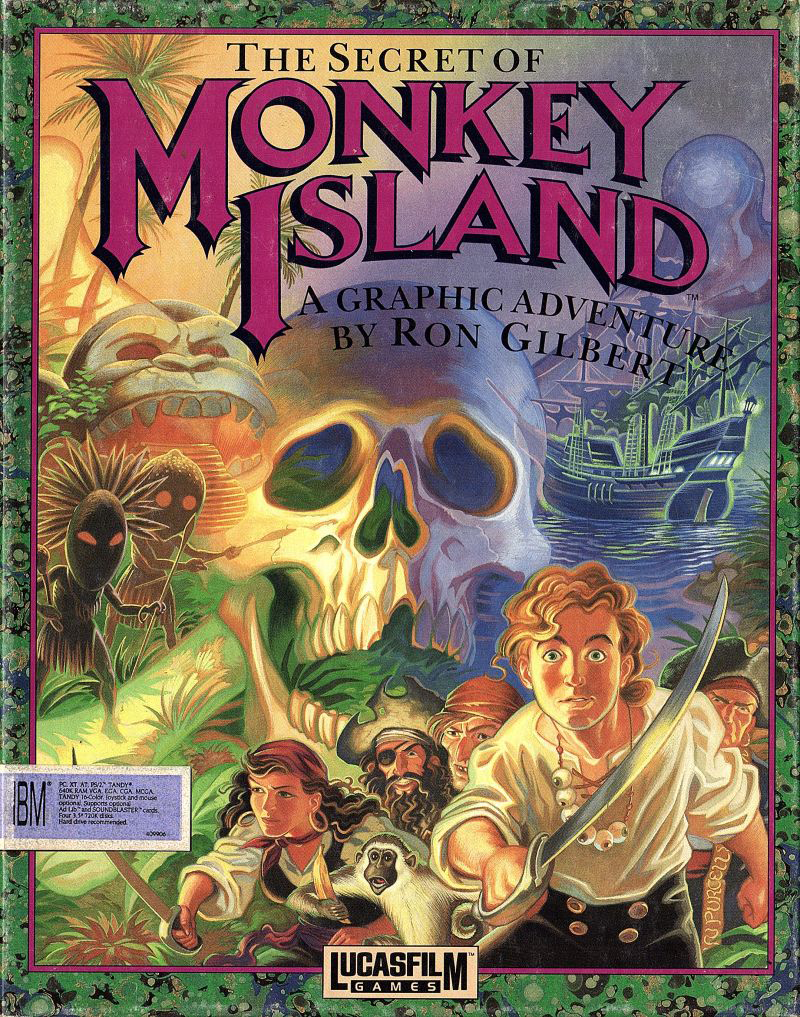
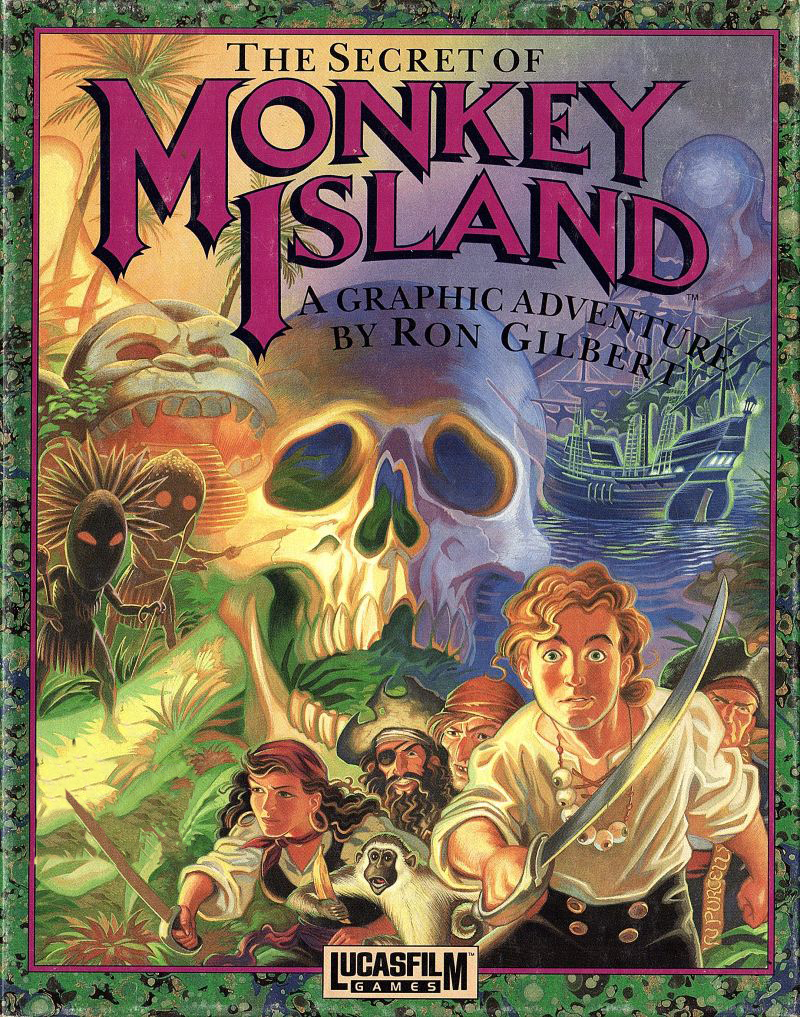
Added additional box art. The sidebar is now dynamically generated based on installed games. Mocked up the gallery. Updated the readme.

Changed region(s): [[0.0, 0.7316, 0.25, 0.8535]]

diff --git a/scummy.html b/scummy.html
@@ -14,18 +14,15 @@
       <i class="fas fa-clock fa-fw"></i>Recent
     </div>
     <div class="sideBarItem selected">
-      <i class="fas fa-layer-group fa-fw"></i>All
+      <i class="fas fa-layer-group fa-fw"></i>All <span class="badge" id="all"></span>
     </div>
     <div class="sideBarItem">
-      <i class="fas fa-heart fa-fw"></i>Favorites
+      <i class="fas fa-heart fa-fw"></i>Favorites <span class="badge" id="favorites"></span>
     </div>
     <div id="sideBarCategories">
       <div class="sideBarHeader">
         CATEGORIES
       </div>
-    </div>
-    <div class="sideBarItem">
-      <i class="fas fa-bookmark fa-fw"></i>Other Games
     </div>
   </div>
   <div class="leftMenuBar">
@@ -34,9 +31,6 @@
     </div>
     <div class="menuButton">
       <i class="fas fa-search fa-fw"></i>
-    </div>
-    <div class="menuButton">
-      <i class="fas fa-filter fa-fw"></i>
     </div>
   </div>
   <div class="rightMenuBar">
@@ -48,7 +42,17 @@
   </div>
   <div class="main">
     <div id="grid">
-      <div><img src="images/scumm/monkey.png"><span>The Secret of Monkey Island</span></div>
+      <div><img src="images/sword1/sword1.png"><span>Broken Sword: Shadows of the Templars</span></div>
+      <div><img src="images/agos/elvira1.png"><span>Elvira - Mistress of the Dark</span></div>
+      <div><img src="images/cine/fw.png"><span>Future Wars</span></div>
+      <div><img src="images/glk/hhgttg.png"><span>Hitchhiker's Guide to the Galaxy</span></div>
+      <div><img src="images/sci/kq6.png"><span>King's Quest 6: Heir Today, Gone Tomorrow</span></div>
+      <div><img src="images/lab/lab.png"><span>Labyrinth of Time</span></div>
+      <div><img src="images/sci/lighthouse.png"><span>Lighthouse: The Dark Being</span></div>
+      <div><img src="images/gob/lit.png"><span>Lost in Time</span></div>
+      <div><img src="images/mohawk/myst.png"><span>Lost in Time</span></div>
+      <div><img src="images/scumm/tentacle.png"><span>Maniac Mansion: Day of the Tentacle</span></div>
+      <div><img src="images/scumm/monkey.png"><span>The Secret of Monkey Island</span><div class="favorite"><i class="fas fa-heart"></i></div></div>
       <div><img src="images/sci/sq4.png"><span>Space Quest IV: Roger Wilco and the Time Rippers</span></div>
       <div><img src="images/sci/sq6.png"><span>Space Quest 6: Roger Wilco in the Spinal Frontier</span></div>
       <div><img src="images/gob/urban.png"><span>Urban Runner</span></div>

diff --git a/js/scummy.js b/js/scummy.js
@@ -11,6 +11,8 @@ const store = new Store();
 const customTitlebar = require('custom-electron-titlebar');
 
 var devMode = true;
+var installed = ["monkey", "sq4", "sq6", "urban", "ween", "lighthouse", "fw", "kq6", "lab", "lit", "myst", "elvira1", "sword1", "tentacle", "hhgttg"]
+var favorites = ["monkey", "sq4", "lighthouse", "fw", "myst", "sword1"]
 
 //Menu.setApplicationMenu(null);
 
@@ -36,15 +38,27 @@ $(".main").on("mouseenter", () => {
 });
 
 function drawCategories() {
+  $("#all").html(installed.length);
+  $("#favorites").html(favorites.length);
+  let installedCategories = {};
+  Object.keys(categories).forEach(key => {
+    installedCategories[key] = 0;
+  });
+  Object.keys(gameData).forEach(key => {
+    if (installed.includes(gameData[key]['id'])) installedCategories[gameData[key]['category']] += 1;
+  });
   Object.keys(categories).sort().forEach(key => {
-    let tmpIcon = $("<i></i>", {"class": "fas fa-bookmark fa-fw"});
-    let tmpObject = $("<div></div>", {"class":"sideBarItem", "id":key}).text(categories[key]).prepend(tmpIcon);
-    $("#sideBarCategories").append(tmpObject);
+    if (installedCategories[key] > 0) {
+      let tmpIcon = $("<i></i>", {"class": "fas fa-bookmark fa-fw bookmark"});
+      let tmpCount = $("<span></span>", {"class":"badge"}).text(installedCategories[key]);
+      let tmpObject = $("<div></div>", {"class":"sideBarItem", "id":key}).text(categories[key]).prepend(tmpIcon).append(tmpCount);
+      $("#sideBarCategories").append(tmpObject);
+    }
   });
 }
 
 function drawGames() {
   if ($("#gallery-view").hasClass("active")) {
-    
+
   }
 }

diff --git a/css/scummy.css b/css/scummy.css
@@ -45,6 +45,22 @@ html {
   opacity: 1.0;
 }
 
+.sideBarItem.select > i.bookmark {
+  color: #080;
+}
+
+.sideBarItem.select > i.favorite {
+  color: #800;
+}
+
+.sideBarItem.select > i.bookmark {
+  color: #080;
+}
+
+.sideBarItem:hover > i {
+  opacity: 1.0;
+}
+
 .sideBarItem:hover > i {
   opacity: 1.0;
 }
@@ -52,6 +68,16 @@ html {
 .sideBarItem i {
   opacity: 0.5;
   padding-right: 5px;
+}
+
+.sideBarItem > .badge {
+  display: inline-block;
+  margin-left: 5px;
+  background: white;
+  color: #1B262C;
+  padding: 0 10px;
+  border-radius: 20px;
+  font-size: 0.8em;
 }
 
 #sideBarCategories {
@@ -119,10 +145,8 @@ html {
   background: #BBE1FA;
   border-top-left-radius: 5px;
   padding: 60px 30px 30px 30px;
+  box-sizing: border-box;
 }
-
-
-
 
 
 #grid {

diff --git a/js/categories.js b/js/categories.js
@@ -19,5 +19,6 @@ var categories = {
   "cyan": "Cyan Worlds",
   "polarware": "Polarware",
   "origin": "Origin Systems",
-  "activision": "Activision"
+  "activision": "Activision",
+  "other": "Other Games"
 };

diff --git a/README.md b/README.md
@@ -1,5 +1,172 @@
-# Scummy: A SCUMMVM front end.
+[![Contributors][contributors-shield]][contributors-url]
+[![Forks][forks-shield]][forks-url]
+[![Stargazers][stars-shield]][stars-url]
+[![Issues][issues-shield]][issues-url]
+[![MIT License][license-shield]][license-url]
+[![LinkedIn][linkedin-shield]][linkedin-url]
 
-Scummy is a modern, clean UI for managing SCUMMVM games.
 
-Visit the Trello board at https://trello.com/b/kM5O1UM2/scummy
+
+<!-- PROJECT LOGO -->
+<br />
+<p align="center">
+  <a href="https://github.com/jharrels/scummy">
+    <img src="images/logo.png" alt="Logo" width="100" height="100">
+  </a>
+
+  <h3 align="center">Scummy</h3>
+
+  <p align="center">
+    A modern, clean front-end for SCUMMVM.
+    <br />
+    <br />
+    <a href="https://github.com/jharrels/scummy/issues">Report Bug</a>
+    ·
+    <a href="https://github.com/jharrels/scummy/issues">Request Feature</a>
+  </p>
+</p>
+
+
+
+<!-- TABLE OF CONTENTS -->
+<details open="open">
+  <summary>Table of Contents</summary>
+  <ol>
+    <li>
+      <a href="#about-the-project">What is Scummy?</a>
+      <ul>
+        <li><a href="#built-with">Built With</a></li>
+      </ul>
+    </li>
+    <li>
+      <a href="#getting-started">Getting Started</a>
+      <ul>
+        <li><a href="#prerequisites">Prerequisites</a></li>
+        <li><a href="#installation">Installation</a></li>
+      </ul>
+    </li>
+    <li><a href="#usage">Usage</a></li>
+    <li><a href="#roadmap">Roadmap</a></li>
+    <li><a href="#contributing">Contributing</a></li>
+    <li><a href="#license">License</a></li>
+    <li><a href="#contact">Contact</a></li>
+    <li><a href="#acknowledgements">Acknowledgements</a></li>
+  </ol>
+</details>
+
+
+
+<!-- ABOUT THE PROJECT -->
+## What is Scummy?
+
+[![Scummy][scummy-gallery]](https://j-topia.com/images/scummy_gallery.png)
+
+Scummy is a well designed, clean, and modern front-end for SCUMMVM. For those who aren't familiar, SCUMMVM is an application which allow you to run classic graphic adventure and roleplaying games on modern systems. While it is a fantastic application that has given many a chance to relive their childhood favorites, I find the user interface a little old school.
+
+Why didn't I just contribute to the SCUMMVM project? Because I am a horrible C/C++ developer and quite honestly, I wasn't sure what I was looking at when I snagged the source code. I am used to working with web technologies, so I thought about providing a front-end for those who would like to use one as a way of giving back to the SCUMMVM community.
+
+A list of resources that I find helpful are listed in the acknowledgements.
+
+### Built With
+
+* [Node.js](https://nodejs.org)
+* [JQuery](https://jquery.com)
+* [Electron](https://www.electronjs.org)
+* [Font Awesome](https://fontawesome.com)
+
+
+
+<!-- GETTING STARTED -->
+## Getting Started
+
+You've checked out Scummy and would like to contribute? Great! Here's how to set up a working copy locally.
+
+### Prerequisites
+
+This is an example of how to list things you need to use the software and how to install them.
+* npm
+  ```sh
+  npm install npm@latest -g
+  ```
+
+### Installation
+
+1. Clone the repo
+   ```sh
+   git clone https://github.com/jharrels/scummy.git
+   ```
+3. Install NPM packages
+   ```sh
+   npm install
+   ```
+4. Startup Scummy from the repo
+   ```sh
+   npm test
+   ```
+
+
+
+<!-- ROADMAP -->
+## Roadmap
+Visit the Trello board at https://trello.com/b/kM5O1UM2/scummy to see where we're headed.
+
+See the [open issues](https://github.com/jharrels/scummy/issues) for a list of proposed features (and known issues).
+
+
+
+<!-- CONTRIBUTING -->
+## Contributing
+
+Contributions are what make the open source community such an amazing place to be learn, inspire, and create. Any contributions you make are **greatly appreciated**.
+
+1. Fork the Project
+2. Create your Feature Branch (`git checkout -b feature/amazing-feature`)
+3. Commit your Changes (`git commit -m 'Add some amazing-feature'`)
+4. Push to the Branch (`git push origin feature/amazing-feature`)
+5. Open a Pull Request
+
+
+
+<!-- LICENSE -->
+## License
+
+Distributed under the MIT License. See `LICENSE` for more information.
+
+
+
+<!-- CONTACT -->
+## Contact
+
+Project Link: [https://github.com/jharrels/scummy](https://github.com/jharrels/scummy)
+
+
+
+<!-- ACKNOWLEDGEMENTS -->
+## Acknowledgements
+* [The SCUMMVM Team](https://scummvm.org)
+* [Choose an Open Source License](https://choosealicense.com)
+* [Font Awesome](https://fontawesome.com)
+* [GitHub Pages](https://pages.github.com)
+* [Node.js](https://nodejs.org)
+* [JQuery](https://jquery.com)
+* [Electron](https://www.electronjs.org)
+
+
+
+
+
+<!-- MARKDOWN LINKS & IMAGES -->
+<!-- https://www.markdownguide.org/basic-syntax/#reference-style-links -->
+[contributors-shield]: https://img.shields.io/github/contributors/jharrels/scummy.svg?style=for-the-badge
+[contributors-url]: https://github.com/jharrels/scummy/graphs/contributors
+[forks-shield]: https://img.shields.io/github/forks/jharrels/scummy.svg?style=for-the-badge
+[forks-url]: https://github.com/jharrels/scummy/network/members
+[stars-shield]: https://img.shields.io/github/stars/jharrels/scummy.svg?style=for-the-badge
+[stars-url]: https://github.com/jharrels/scummy/stargazers
+[issues-shield]: https://img.shields.io/github/issues/jharrels/scummy.svg?style=for-the-badge
+[issues-url]: https://github.com/jharrels/scummy/issues
+[license-shield]: https://img.shields.io/github/license/jharrels/scummy.svg?style=for-the-badge
+[license-url]: https://github.com/jharrels/scummy/blob/master/LICENSE.txt
+[linkedin-shield]: https://img.shields.io/badge/-LinkedIn-black.svg?style=for-the-badge&logo=linkedin&colorB=555
+[linkedin-url]: https://www.linkedin.com/in/justin-harrelson-a7b18549
+[product-screenshot]: https://j-topia.com/images/scummy_gallery.png
